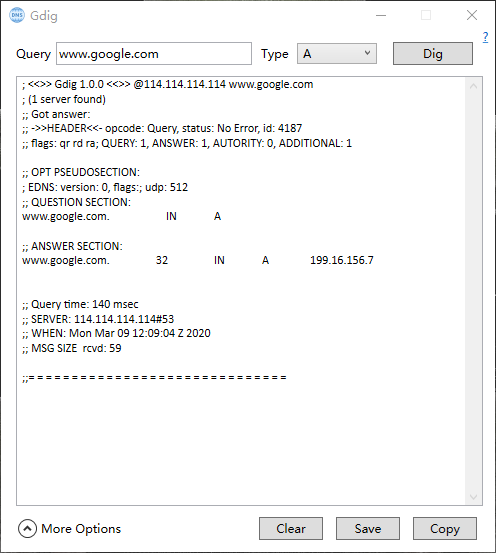
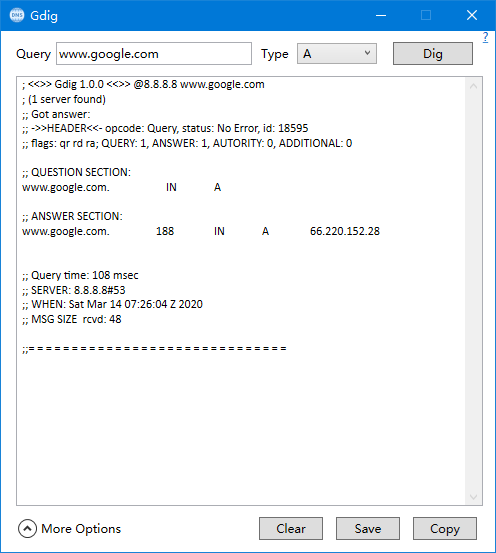
feat: Support setting dns servers by yourself. feat: Support dig from a url, you can copy url from browser and paste it to the query field.

diff --git a/MainWindow.xaml b/MainWindow.xaml
@@ -29,7 +29,7 @@
 
         <Button x:Name="bt_dig" Content="Dig" HorizontalAlignment="Left" Margin="0,1" VerticalAlignment="Center" Width="80" Click="Bt_dig_Click" Height="23" Grid.Column="4" Grid.Row="1" Grid.ColumnSpan="3"/>
         <TextBox x:Name="tb_domain" HorizontalAlignment="Left" Height="23" Margin="40,1,0,1" TextWrapping="Wrap" VerticalAlignment="Center" Width="196" KeyDown="tb_domain_KeyDown" VerticalContentAlignment="Center" Grid.Column="1" AutomationProperties.IsRowHeader="True" Grid.Row="1"/>
-        <Expander x:Name="ep_options" Header="More Options" HorizontalAlignment="Left" Height="164" Margin="0,300,0,0" VerticalAlignment="Top" Width="288" RenderTransformOrigin="-0.066,1.928" ExpandDirection="Up" Grid.ColumnSpan="2" SnapsToDevicePixels="True" Grid.Row="3" Grid.RowSpan="3" Grid.Column="1" Panel.ZIndex="100">
+        <Expander x:Name="ep_options" Header="More Options" HorizontalAlignment="Left" Height="164" Margin="0,300,0,0" VerticalAlignment="Top" Width="308" RenderTransformOrigin="-0.066,1.928" ExpandDirection="Up" Grid.ColumnSpan="2" SnapsToDevicePixels="True" Grid.Row="3" Grid.RowSpan="3" Grid.Column="1" Panel.ZIndex="100">
             <Grid Margin="0,0,0,8" Background="#FF232222" >
                 <Grid.ColumnDefinitions>
                     <ColumnDefinition Width="12*"/>
@@ -49,11 +49,11 @@
                 <ComboBox x:Name="cbb_nameservers" HorizontalAlignment="Left" Margin="80,0,0,0" VerticalAlignment="Center" Width="172" SelectedIndex="0" DropDownClosed="Reconfig" Padding="6,3,5,3" VerticalContentAlignment="Center" FontFamily="Calibri" Height="24" Grid.Column="1" Grid.Row="1" DisplayMemberPath="Name" SelectedValuePath="ID">
                 </ComboBox>
                 <Label Content="NameServer" Padding="0" HorizontalAlignment="Left" Height="15" Margin="0" VerticalAlignment="Center" Width="80" Foreground="White" Grid.Column="1" Panel.ZIndex="101" Grid.Row="1"/>
-                <!--<TextBlock HorizontalAlignment="Left" Margin="257,0,0,0" TextWrapping="Wrap" VerticalAlignment="Bottom" FontSize="11" Grid.Column="1" Height="14" Width="24" Grid.Row="1" Panel.ZIndex="103">
-                    <Hyperlink NavigateUri="" >
+                <TextBlock HorizontalAlignment="Left" Margin="257,10,0,0" TextWrapping="Wrap" VerticalAlignment="Top" FontSize="11" Grid.Column="1" Height="14" Width="24" Grid.Row="1" Panel.ZIndex="103">
+                    <Hyperlink NavigateUri="" Click="Hyperlink_Click" >
                         edit
                     </Hyperlink>
-                </TextBlock>-->
+                </TextBlock>
                 <Label Content="TCP" Padding="0" HorizontalAlignment="Left" Height="15" Margin="0" VerticalAlignment="Center" Width="80" Foreground="White" Grid.Row="3" Grid.Column="1"/>
                 <CheckBox x:Name="cb_tcp"  HorizontalAlignment="Left" Margin="130,0,0,0" VerticalAlignment="Center" Checked="Reconfig" Unchecked="Reconfig" Grid.Column="1" Grid.Row="3" Height="16" Width="16"/>
                 <Label Content="No Cache" Padding="0" HorizontalAlignment="Left" Height="15" Margin="0,6,0,0" VerticalAlignment="Top" Width="101" Foreground="White" Grid.Row="5" Grid.Column="1"/>

diff --git a/Nameservers.xaml b/Nameservers.xaml
@@ -1,0 +1,20 @@
+<Window x:Class="Gdig.Nameservers"
+        xmlns="http://schemas.microsoft.com/winfx/2006/xaml/presentation"
+        xmlns:x="http://schemas.microsoft.com/winfx/2006/xaml"
+        xmlns:d="http://schemas.microsoft.com/expression/blend/2008"
+        xmlns:mc="http://schemas.openxmlformats.org/markup-compatibility/2006"
+        xmlns:local="clr-namespace:Gdig"
+        mc:Ignorable="d"
+        Title="Nameservers" Height="272.105" Width="358.948" ResizeMode="NoResize">
+    <Grid>
+        <DataGrid Name="dg_ns" HorizontalAlignment="Center" Height="159" Margin="20,20,20,0" VerticalAlignment="Top" AutoGenerateColumns="False">
+            <DataGrid.Columns>
+                <DataGridTextColumn Header="Name" Width="3*" Binding="{Binding Name}"/>
+                <DataGridTextColumn Header="Host" Width="5*" Binding="{Binding Host}"/>
+                <DataGridTextColumn Header="Port" Width="2*" Binding="{Binding Port}"/>
+            </DataGrid.Columns>
+        </DataGrid>
+        <Button x:Name="ok" Content="OK" HorizontalAlignment="Right" Margin="0,0,20,20" VerticalAlignment="Bottom" Width="75" Click="ok_Click"/>
+
+    </Grid>
+</Window>

diff --git a/Nameservers.xaml.cs b/Nameservers.xaml.cs
@@ -1,0 +1,73 @@
+using System;
+using System.Collections.Generic;
+using System.Data;
+using System.Linq;
+using System.Text;
+using System.Text.RegularExpressions;
+using System.Threading.Tasks;
+using System.Windows;
+using System.Windows.Controls;
+using System.Windows.Data;
+using System.Windows.Documents;
+using System.Windows.Forms;
+using System.Windows.Input;
+using System.Windows.Media;
+using System.Windows.Media.Imaging;
+using System.Windows.Shapes;
+
+namespace Gdig
+{
+    /// <summary>
+    /// Nameservers.xaml 的交互逻辑
+    /// </summary>
+    /// 
+    public partial class Nameservers : Window
+    {
+        public class NameServer
+        {
+            public string Name { get; set; }
+            public string Host { get; set; }
+            public int Port { get; set; }
+            public override string ToString()
+            {
+                return String.Format("{0} -> {1}:{2}", Name, Host, Port);
+            }
+        }
+
+        public List<NameServer> ns;
+        public Nameservers()
+        {
+            InitializeComponent();
+
+            List<string> items = new List<string>(((string)Properties.Settings.Default["nameServers"]).Split(new char[] { ';' }));
+            string dns_server_name, dns_server_ip;
+            int dns_server_port;
+            ns = new List<NameServer>();
+            foreach (var item in items) {
+                string[] dns_server_conf = Regex.Split(item, "->|:", RegexOptions.IgnoreCase);
+                dns_server_name = dns_server_conf[0].Trim();
+                dns_server_ip = dns_server_conf[1].Trim();
+                dns_server_port = Int32.Parse(dns_server_conf[2].Trim());
+                ns.Add(new NameServer()
+                {
+                    Name = dns_server_name,
+                    Host = dns_server_ip,
+                    Port = dns_server_port
+                });
+            }
+
+            dg_ns.ItemsSource = ns;
+        }
+
+        private void ok_Click(object sender, RoutedEventArgs e)
+        {
+            List<string> res_list = new List<string>();
+            foreach (var item in ns) {
+                res_list.Add(item.ToString());
+            }
+            Properties.Settings.Default["nameServers"] = string.Join(";", res_list);
+            Properties.Settings.Default.Save();
+            this.Close();
+        }
+    }
+}

diff --git a/Properties/Settings.Designer.cs b/Properties/Settings.Designer.cs
@@ -49,19 +49,6 @@ namespace Gdig.Properties {
         
         [global::System.Configuration.UserScopedSettingAttribute()]
         [global::System.Diagnostics.DebuggerNonUserCodeAttribute()]
-        [global::System.Configuration.DefaultSettingValueAttribute("114 -> 114.114.114.114:53;DNSPOD -> 119.29.29.29:53;阿里云 -> 223.5.5.5:53;TUNA -> 1" +
-            "01.6.6.6:53;GOOGLE -> 8.8.8.8:53")]
-        public string nameServers {
-            get {
-                return ((string)(this["nameServers"]));
-            }
-            set {
-                this["nameServers"] = value;
-            }
-        }
-        
-        [global::System.Configuration.UserScopedSettingAttribute()]
-        [global::System.Diagnostics.DebuggerNonUserCodeAttribute()]
         [global::System.Configuration.DefaultSettingValueAttribute("0")]
         public int nameServersIndex {
             get {
@@ -105,6 +92,19 @@ namespace Gdig.Properties {
             }
             set {
                 this["autoClear"] = value;
+            }
+        }
+        
+        [global::System.Configuration.UserScopedSettingAttribute()]
+        [global::System.Diagnostics.DebuggerNonUserCodeAttribute()]
+        [global::System.Configuration.DefaultSettingValueAttribute("114 -> 114.114.114.114:53;DNSPOD -> 119.29.29.29:53;Aliyun -> 223.5.5.5:53;TUNA -" +
+            "> 101.6.6.6:53;GOOGLE -> 8.8.8.8:53")]
+        public string nameServers {
+            get {
+                return ((string)(this["nameServers"]));
+            }
+            set {
+                this["nameServers"] = value;
             }
         }
     }

diff --git a/MainWindow.xaml.cs b/MainWindow.xaml.cs
@@ -184,7 +184,17 @@ namespace Gdig
         private async void Bt_dig_Click(object sender, RoutedEventArgs e)
         {
             string dns_type = cb_type.Text;
-            string domain = tb_domain.Text;
+            string domain;
+            try
+            {
+                Uri myUri = new Uri(tb_domain.Text);
+                domain = myUri.Host;
+                tb_domain.Text = domain;
+            }
+            catch (Exception ){
+                domain = tb_domain.Text;
+            }
+            
             string version = "1.0.0";
 
             bool autoclear = (Boolean)cb_autoclear.IsChecked;
@@ -282,6 +292,23 @@ namespace Gdig
         private void Window_Closing(object sender, System.ComponentModel.CancelEventArgs e)
         {
             Properties.Settings.Default.Save();
+        }
+
+        private void Hyperlink_Click(object sender, RoutedEventArgs e)
+        {
+            Nameservers win = new Nameservers();
+            win.Closed += new EventHandler(NameServersWindow_Closed);
+            win.Owner = Application.Current.MainWindow;
+            win.WindowStartupLocation = WindowStartupLocation.CenterOwner;
+            win.ShowDialog();
+        }
+
+        private void NameServersWindow_Closed(object sender, EventArgs e)
+        {
+            IsWindowInitialized = false;
+            fill_data();
+            IsWindowInitialized = true;
+            CreateDnsclient();
         }
     }
 

diff --git a/ReadMe.md b/ReadMe.md
@@ -6,6 +6,12 @@ It looks like:
 
 ![main.png](main.png)
 
-Dependencies:
+## Dependencies
 
 * .NET Framework 4.7.2
+
+## Feature
+
+* Remember all user configs after close window.
+* Support setting dns servers by yourself.
+* Support dig from a url, you can copy url from browser and paste it to the query field.
